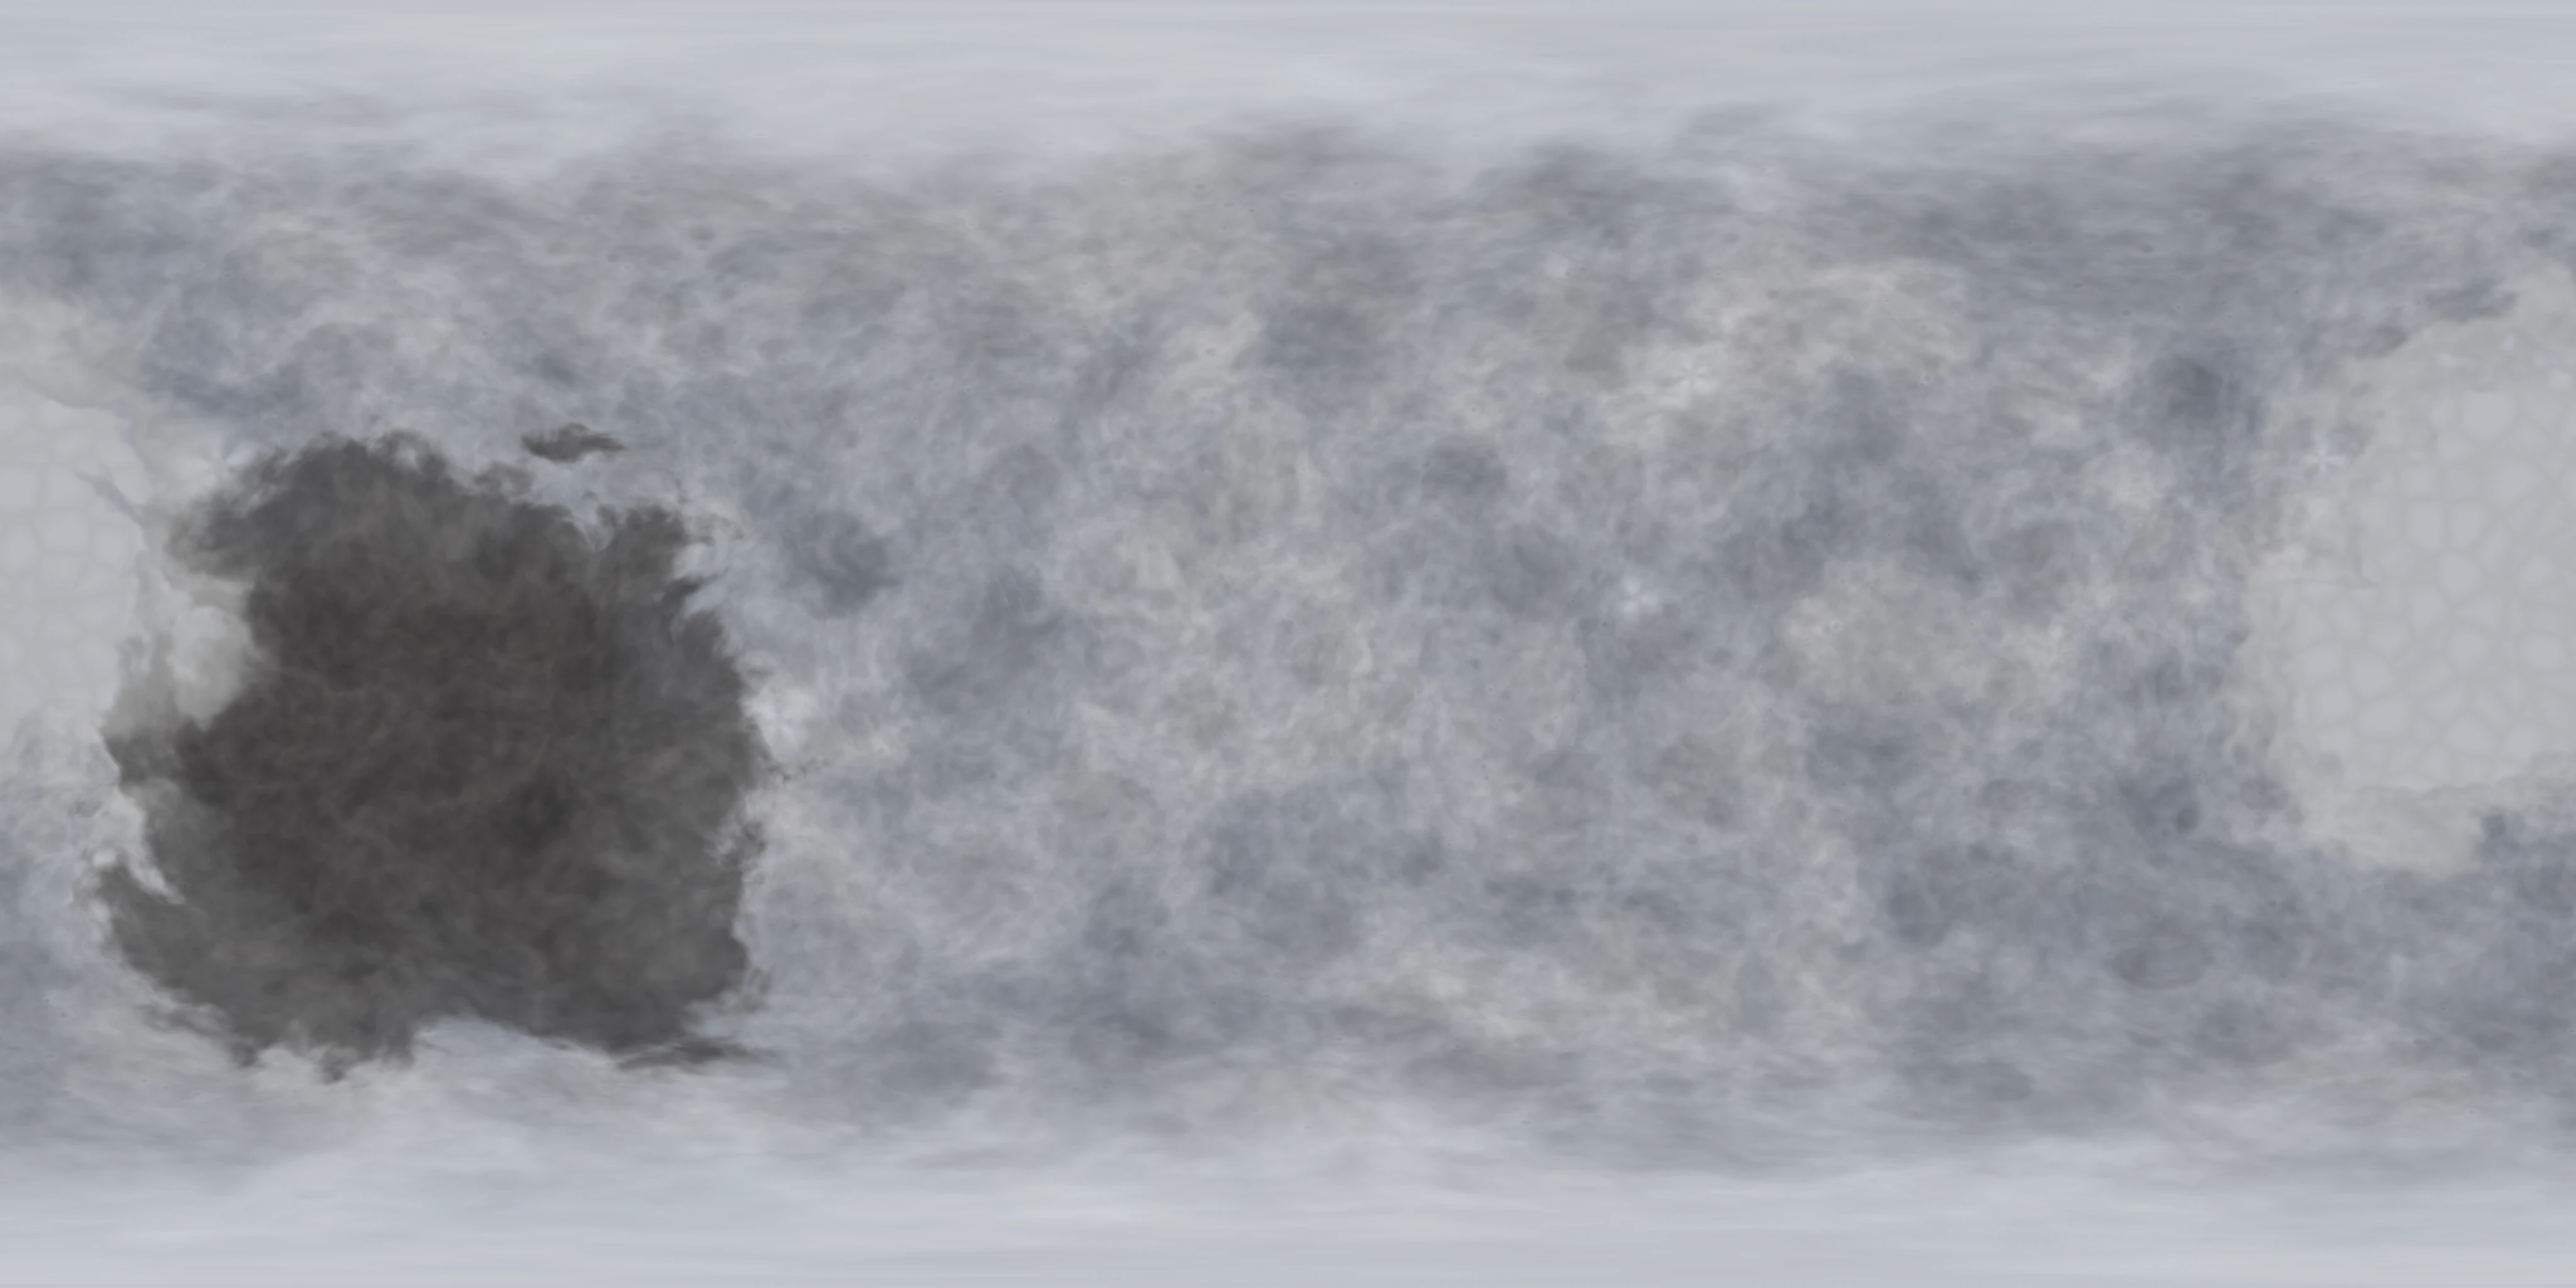
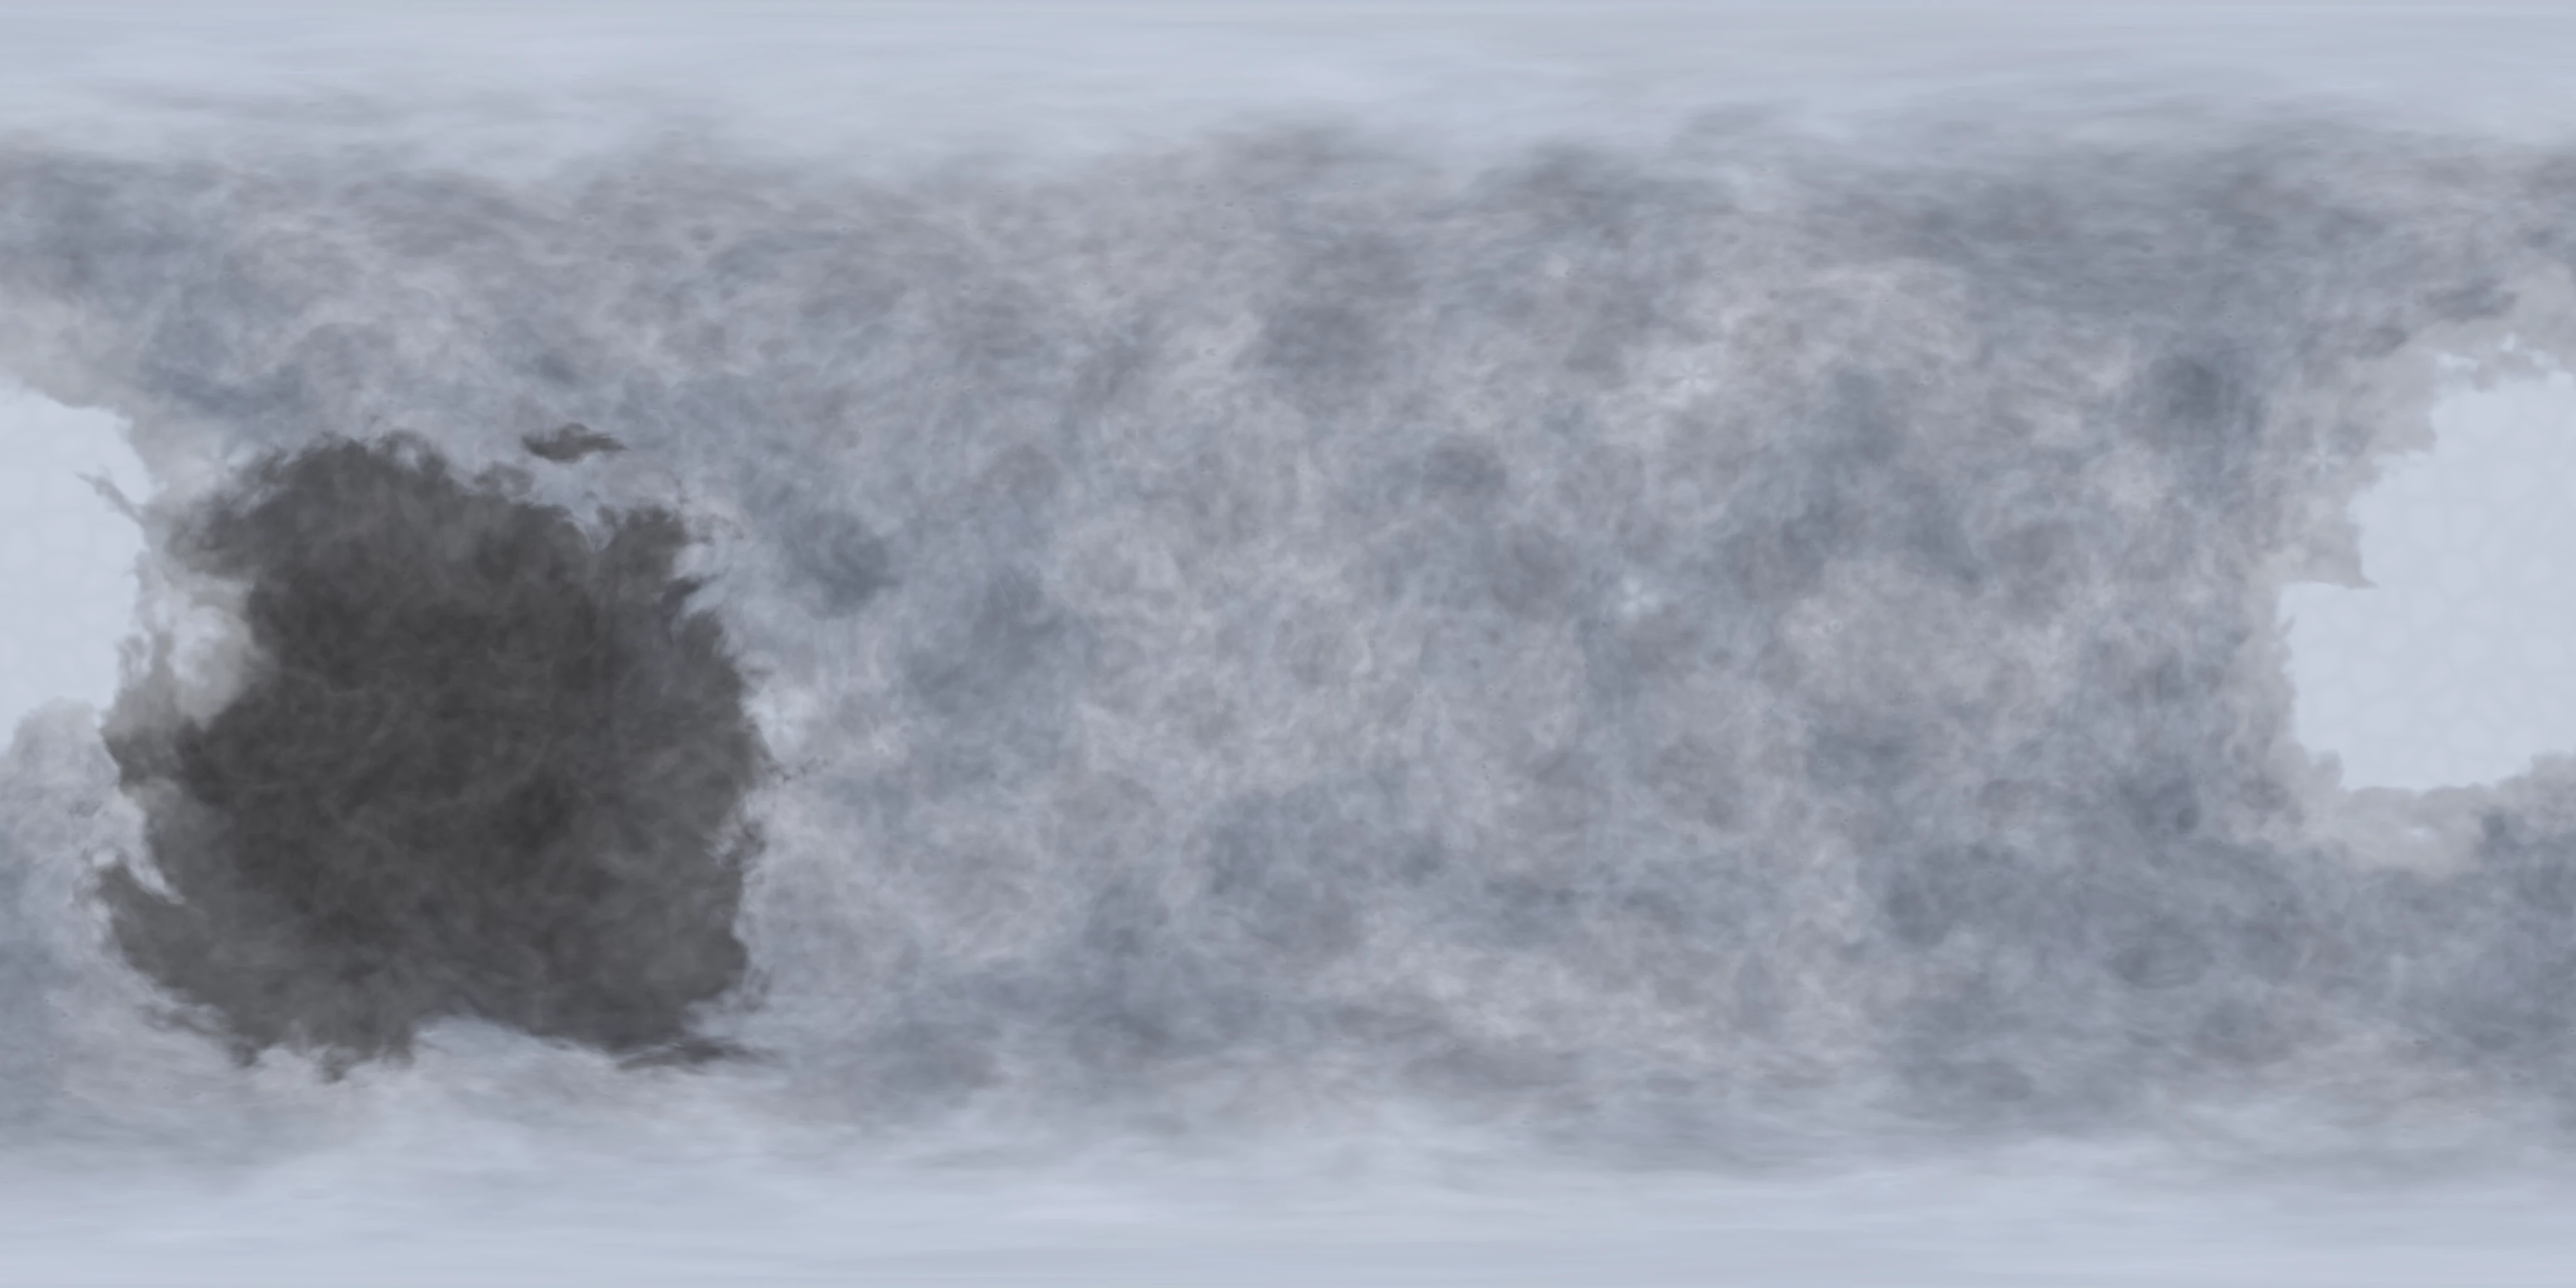
Hielo follow-up: outposts show from orbit, cooler grey-white, brighter plain, default view shows plain and dark land; belt: one rock colour range, rocks between camera and Hielo shrink away; lessons noted
Claude-Session: https://claude.ai/code/session_01K8R5kqduobr76DoBg9xGr3

Changed region(s): [[0.875, 0.2812, 1.0, 0.625], [0.0, 0.2812, 0.0625, 0.5938]]

diff --git a/web/src/lib/system/AsteroidBelt.svelte b/web/src/lib/system/AsteroidBelt.svelte
@@ -21,8 +21,9 @@
 		size: [number, number];
 		/** Share of pale icy rocks among the grey and brown. */
 		icy?: number;
-		/** Keep rocks away from these points (a body sitting in the belt, the camera). */
-		clear?: { at: [number, number, number]; radius: number }[];
+		/** Keep rocks away from these points (a body sitting in the belt, the camera). With
+		 * `shield`, rocks between the camera and the point also shrink away, so none hides it. */
+		clear?: { at: [number, number, number]; radius: number; shield?: boolean }[];
 		/** Crowd rocks toward a point: they're this many times denser near it. */
 		crowd?: { at: [number, number, number]; radius: number; factor: number };
 		seed?: number;
@@ -103,13 +104,14 @@
 	const geometries = Array.from({ length: SHAPES }, () => rock(r));
 	const material = new THREE.MeshStandardMaterial({ roughness: 0.95, metalness: 0 });
 
+	// svelte-ignore state_referenced_locally
+	const holes = (clear ?? []).map((h) => ({ at: new THREE.Vector3(...h.at), radius: h.radius, shield: !!h.shield }));
 	type Rock = { pos: THREE.Vector3; scale: number; quat: THREE.Quaternion; axis: THREE.Vector3; spin: number };
 	const rocks: Rock[][] = Array.from({ length: SHAPES }, () => []);
 	const colours: THREE.Color[][] = Array.from({ length: SHAPES }, () => []);
 	// svelte-ignore state_referenced_locally
 	{
 		const c = new THREE.Vector3(...centre);
-		const holes = (clear ?? []).map((h) => ({ at: new THREE.Vector3(...h.at), radius: h.radius }));
 		const dense = crowd && new THREE.Vector3(...crowd.at);
 		const p = new THREE.Vector3();
 		let placed = 0;
@@ -137,10 +139,11 @@
 			// Grey and brown rock, some pale icy bodies; darker small ones (dust-coated).
 			const ice = r() < icy;
 			// Asteroids are dark (most reflect 5–20% of light); the icy ones a pale blue-grey, not snow.
-			const l = ice ? 0.12 + 0.06 * r() : 0.04 + 0.1 * r();
+			// One range, cool dark grey to grey-brown; icy ones only a little paler and bluer.
+			const l = ice ? 0.1 + 0.05 * r() : 0.04 + 0.09 * r();
 			// Slightly cool, as the warm sun tints neutral grey toward tan.
-			const warm = ice ? -0.02 : -0.012 + 0.015 * r();
-			colours[shape].push(new THREE.Color(l + warm, l, l - warm + (ice ? 0.05 : 0)));
+			const warm = ice ? -0.012 : -0.012 + 0.015 * r();
+			colours[shape].push(new THREE.Color(l + warm, l, l - warm + (ice ? 0.015 : 0)));
 			placed++;
 		}
 	}
@@ -155,6 +158,8 @@
 	const { camera } = useThrelte();
 	const matrix = new THREE.Matrix4();
 	const world = new THREE.Vector3();
+	const toBody = new THREE.Vector3();
+	const toRock = new THREE.Vector3();
 	const turn = new THREE.Quaternion();
 	const scl = new THREE.Vector3();
 	function update(delta: number) {
@@ -164,7 +169,20 @@
 				k.quat.premultiply(turn);
 				// Rocks shrink away as the camera comes close, so none ever fills the view.
 				world.copy(k.pos);
-				const near = Math.min(Math.max((camera.current.position.distanceTo(world) - 0.6) / 1.2, 0), 1);
+				let near = Math.min(Math.max((camera.current.position.distanceTo(world) - 0.6) / 1.2, 0), 1);
+				// And rocks between the camera and a body in the belt, so none hides it.
+				for (const h of holes) {
+					if (!h.shield) continue;
+					toBody.copy(h.at).sub(camera.current.position);
+					const len = toBody.length();
+					toBody.divideScalar(len);
+					toRock.copy(world).sub(camera.current.position);
+					const t = toRock.dot(toBody);
+					if (t > 0 && t < len) {
+						const off = toRock.addScaledVector(toBody, -t).length() / (h.radius * (t / len));
+						near = Math.min(near, Math.min(Math.max((off - 0.9) / 0.3, 0), 1));
+					}
+				}
 				matrix.compose(k.pos, k.quat, scl.setScalar(k.scale * near * near * (3 - 2 * near)));
 				m.setMatrixAt(j, matrix);
 			});

diff --git a/web/src/routes/system/lab/+page.svelte b/web/src/routes/system/lab/+page.svelte
@@ -178,7 +178,7 @@
 			<!-- Hielo in the belt. The belt's arc runs through it, left to right. -->
 			<T.AmbientLight intensity={0.05} />
 			<Sun look={YELLOW_SUN} radius={1.2} position={SUN_AT} intensity={1.6} />
-			<Planet slug="hielo" radius={HIELO.radius} glow={HIELO.glow} atmosphere={HIELO.atmosphere} nightLights sun={SUN_AT} face={140} spin={0.002} />
+			<Planet slug="hielo" radius={HIELO.radius} glow={HIELO.glow} atmosphere={HIELO.atmosphere} nightLights sun={SUN_AT} face={-160} spin={0.002} />
 			<AsteroidBelt
 				centre={[0, 0, -30]}
 				radius={30}
@@ -188,7 +188,7 @@
 				count={12000}
 				size={[0.003, 0.12]}
 				clear={[
-					{ at: [0, 0, 0], radius: 1.1 },
+					{ at: [0, 0, 0], radius: 1.1, shield: true },
 					{ at: [0.4, 0.5, 2.6], radius: 2.2 }
 				]}
 				crowd={{ at: [0, 0, 0], radius: 6, factor: 3 }}

diff --git a/tools/planets/hielo.py b/tools/planets/hielo.py
@@ -180,7 +180,7 @@ def generate(width: int, out: Path) -> None:
     rgb = rgb * (1 - 0.25 * trough[..., None]) + np.array([0.55, 0.62, 0.7], np.float32) * 0.25 * trough[..., None]
     # The plain: bright cream-white ice, cells faintly varied, troughs barely darker.
     # Neutral, a touch cool: a cream white rendered khaki-olive under the warm sun.
-    plainrgb = np.array([0.75, 0.76, 0.78], np.float32) * (0.96 + 0.05 * cell_tone[..., None]) * (0.96 + 0.04 * cell_edge[..., None])
+    plainrgb = np.array([0.8, 0.81, 0.83], np.float32) * (0.98 + 0.02 * cell_edge[..., None])
     rgb = rgb * (1 - 0.5 * margin[..., None]) + np.array([0.78, 0.78, 0.77], np.float32) * 0.5 * margin[..., None]
     rgb = rgb * (1 - plain[..., None]) + plainrgb * plain[..., None]
     # Polar frost: soft, ragged, brightest at the poles.
@@ -193,9 +193,12 @@ def generate(width: int, out: Path) -> None:
     lights = np.zeros(g.lat.shape, np.float32)
     for la, lo, r, b in LIGHTS:
         d = angular_distance(g, la, lo) / r
-        lights += b * (smoothstep(1.0, 0.2, d) + 0.6 * (glint > 0.7) * smoothstep(2.5, 1.0, d))
+        # A small cluster and a soft halo about three times wider, so an outpost shows from orbit.
+        lights += b * (smoothstep(1.0, 0.2, d) + 0.6 * (glint > 0.7) * smoothstep(2.5, 1.0, d) + 0.25 * smoothstep(3.5, 0.5, d))
     emissive = LAMP * np.clip(lights, 0, 1)[..., None]
 
+    # A touch cooler overall: under the warm sun the blue-grey read sepia.
+    rgb = rgb * np.array([0.98, 1.0, 1.04], np.float32)
     rough = np.clip(0.8 - 0.25 * plain - 0.1 * frost, 0, 1)
     out.mkdir(parents=True, exist_ok=True)
     save_rgb(out / "albedo.webp", rgb)

diff --git a/.ideas/projects/solar-system-3d/README.md b/.ideas/projects/solar-system-3d/README.md
@@ -239,6 +239,12 @@ Next: the other planets and moons (see `assets.md`), then the fly-through UI.
 - **Lightning in the cloud shader** (`uLightning`): keep a flash inside its cell's neighbour search
   (halo < 0.6 cell) or it's clipped to a hard edge; fade it toward the limb (cloud alpha piles up
   there and a flash reads as glare); show it mostly on the night side.
+- **Asteroids** (`AsteroidBelt.svelte`). Smooth noise lobes make every rock an egg; a few planar
+  cuts (chipped facets) make them read as rock. Keep them dark (asteroids reflect 5–20%; instance
+  colours are linear, so 0.04–0.13) and a touch cool, as the warm sun turns grey tan. Shrink rocks
+  near the camera and between the camera and the body in focus, or one fills or hides the view.
+- **An icy dwarf** (Hielo). A sunken plain needs a wide height margin, or its edge casts a hard
+  straight line; convection cells must be soft and broad, or they draw a crazed tile web.
 - **Clouds thin as the camera closes in** (to `near` × opacity at 2 radii), so places can be
   seen up close while the planet reads as cloudy from afar.
 
